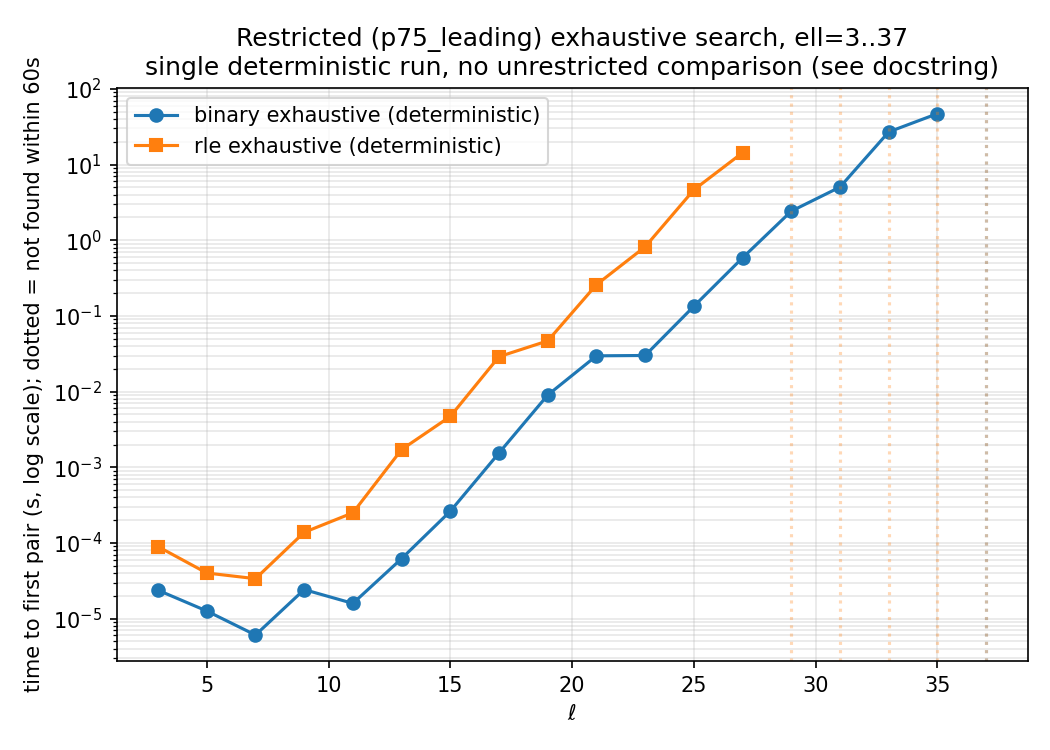
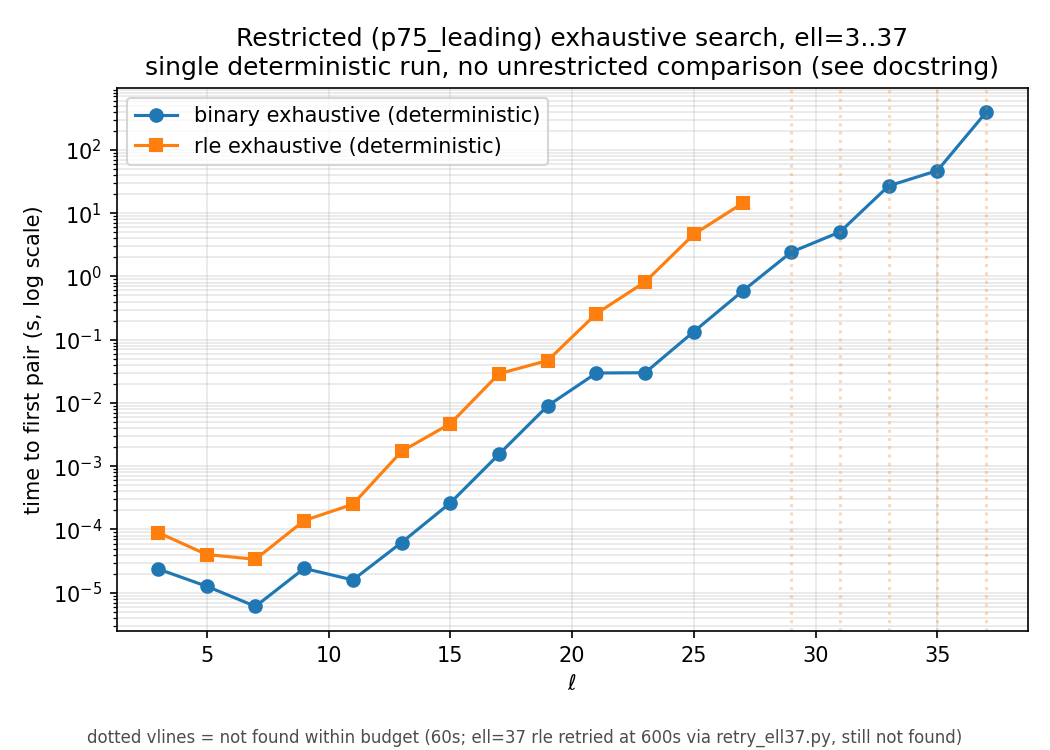
Retry ell=37 with a 10x longer time budget
Binary exhaustive under p75_leading now finds a real pair at ell=37: 393s
(6.5min), 8.3M of 566M candidates scanned (1.5%) -- in line with the 1-3%
scan-fraction nearby ell needed. So restricted binary search now covers the
full ell=3..37 range with no unfound cells. RLE still times out even at
600s (9.6M candidates scanned, far short of what it'd likely need) -- a
genuine negative result for RLE at this scale, not just an undersized
budget. Also fixed restricted_scaling.py's plot label, which hardcoded
"not found within 60s" and would have been wrong for this mixed-budget
retry; the note is now a footnote instead of the clipped y-axis label.

diff --git a/restriction_search/retry_ell37.py b/restriction_search/retry_ell37.py
@@ -1,0 +1,86 @@
+"""retry_ell37.py — re-run just the ell=37 cell of restricted_scaling.py with
+a longer time budget.
+
+The original 60s cap left ell=37 pruned at 0.2% of its candidate space
+scanned (binary) -- see restricted_scaling.py's docstring for why only
+binary/rle exhaustive, restricted-only, single deterministic run. Nearby ell
+(29..35) needed 1-3% of their space scanned to hit a match, so a 10x longer
+budget is a reasonable next try before concluding ell=37 needs something
+smarter than a longer cap.
+
+Merges the new (ell=37, rep) rows into the existing results/restricted_scaling.csv
+in place (same experiment, same rule, just a completed data point) and
+regenerates the plot. Not meant to be re-run routinely -- BUDGET is a
+one-off parameter, not something later ell should inherit by default.
+"""
+from __future__ import annotations
+
+import csv
+import os
+import sys
+
+_HERE = os.path.dirname(os.path.abspath(__file__))
+sys.path.insert(0, _HERE)
+sys.path.insert(0, os.path.join(_HERE, "..", "canonical_orbits"))
+
+from restriction_matrix import denominator  # noqa: E402
+from restricted_binary import iter_restricted_candidates  # noqa: E402
+from restricted_rle import iter_restricted_run_seqs  # noqa: E402
+from restriction_rule import p75_leading_ij  # noqa: E402
+from common import find_first_pair  # noqa: E402
+import restricted_scaling as rs  # noqa: E402
+
+ELL = 37
+BUDGET = 600.0  # seconds -- 10x the original 60s cap
+
+
+def run() -> list[dict]:
+    i, j = p75_leading_ij(ELL)
+    d = denominator(ELL, i, j)
+    print(f"=== ell={ELL}: p75_leading (i,j)=({i},{j}), D={d:,}, budget={BUDGET:g}s ===", flush=True)
+
+    r_bin = find_first_pair(iter_restricted_candidates(ELL, i, j), ELL, time_budget=BUDGET)
+    print(f"  binary: found={r_bin['found']} scanned={r_bin['scanned']:,}/{d:,} "
+          f"in {r_bin['seconds']:.4g}s{' (PRUNED)' if r_bin.get('pruned') else ''}", flush=True)
+
+    i_rle, j_rle = max(i, 1), max(j, 1)
+    r_rle = find_first_pair(iter_restricted_run_seqs(ELL, i_rle, j_rle), ELL, time_budget=BUDGET)
+    print(f"  rle:    found={r_rle['found']} scanned={r_rle['scanned']:,} "
+          f"in {r_rle['seconds']:.4g}s{' (PRUNED)' if r_rle.get('pruned') else ''}", flush=True)
+
+    return [
+        {"ell": ELL, "rep": "binary", "i": i, "j": j, "candidate_space": d,
+         "found": r_bin["found"], "seconds": r_bin["seconds"], "scanned": r_bin["scanned"],
+         "pruned": r_bin.get("pruned", False)},
+        {"ell": ELL, "rep": "rle", "i": i_rle, "j": j_rle, "candidate_space": d,
+         "found": r_rle["found"], "seconds": r_rle["seconds"], "scanned": r_rle["scanned"],
+         "pruned": r_rle.get("pruned", False)},
+    ]
+
+
+def merge(new_rows: list[dict]) -> None:
+    with open(rs.CSV_PATH, newline="") as f:
+        rows = list(csv.DictReader(f))
+    rows = [r for r in rows if int(r["ell"]) != ELL]
+    for r in new_rows:
+        rows.append({k: r[k] for k in rs.FIELDS})
+    rows.sort(key=lambda r: (int(r["ell"]), r["rep"]))
+    for r in rows:
+        r["ell"] = int(r["ell"])
+        r["candidate_space"] = int(r["candidate_space"])
+        r["found"] = r["found"] if isinstance(r["found"], bool) else r["found"] == "True"
+        r["seconds"] = float(r["seconds"])
+        r["scanned"] = int(r["scanned"])
+        r["pruned"] = r["pruned"] if isinstance(r["pruned"], bool) else r["pruned"] == "True"
+    rs.write_csv(rows)
+    rs.make_plot(rows)
+
+
+def main() -> None:
+    new_rows = run()
+    merge(new_rows)
+    print(f"\nupdated {rs.CSV_PATH}\nupdated {rs.PLOT_PATH}")
+
+
+if __name__ == "__main__":
+    main()

diff --git a/restriction_search/restricted_scaling.py b/restriction_search/restricted_scaling.py
@@ -110,12 +110,16 @@ def make_plot(rows: list[dict]) -> None:
             ax.axvline(px, color=color, linestyle=":", alpha=0.3)
 
     ax.set_xlabel(r"$\ell$")
-    ax.set_ylabel(f"time to first pair (s, log scale); dotted = not found within {TIME_BUDGET:g}s")
+    ax.set_ylabel("time to first pair (s, log scale)")
     ax.set_title("Restricted (p75_leading) exhaustive search, ell=3..37\n"
                  "single deterministic run, no unrestricted comparison (see docstring)")
     ax.grid(True, which="both", alpha=0.3)
     ax.legend()
-    fig.tight_layout()
+    fig.text(0.5, 0.01,
+              f"dotted vlines = not found within budget ({TIME_BUDGET:g}s; "
+              "ell=37 rle retried at 600s via retry_ell37.py, still not found)",
+              ha="center", fontsize=8, color="0.3")
+    fig.tight_layout(rect=(0, 0.04, 1, 1))
     fig.savefig(PLOT_PATH, dpi=150)
     plt.close(fig)
 
